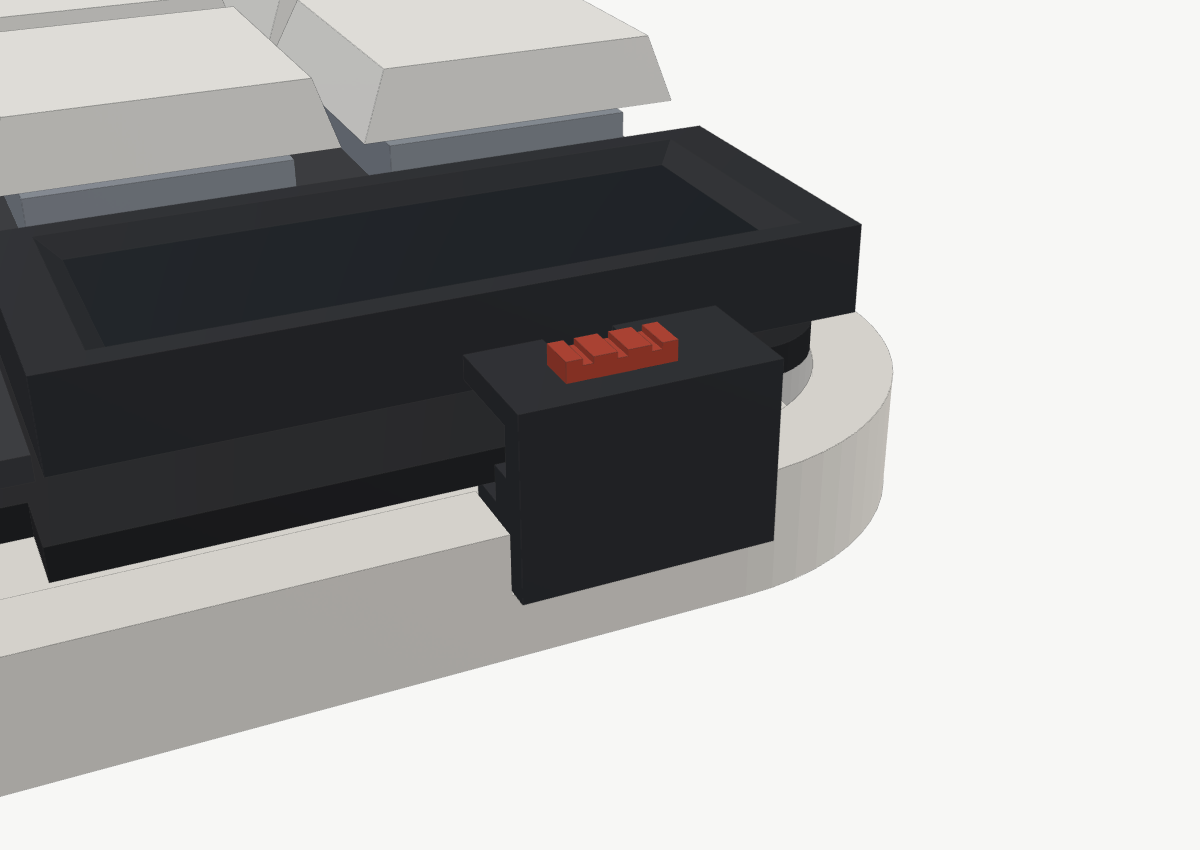
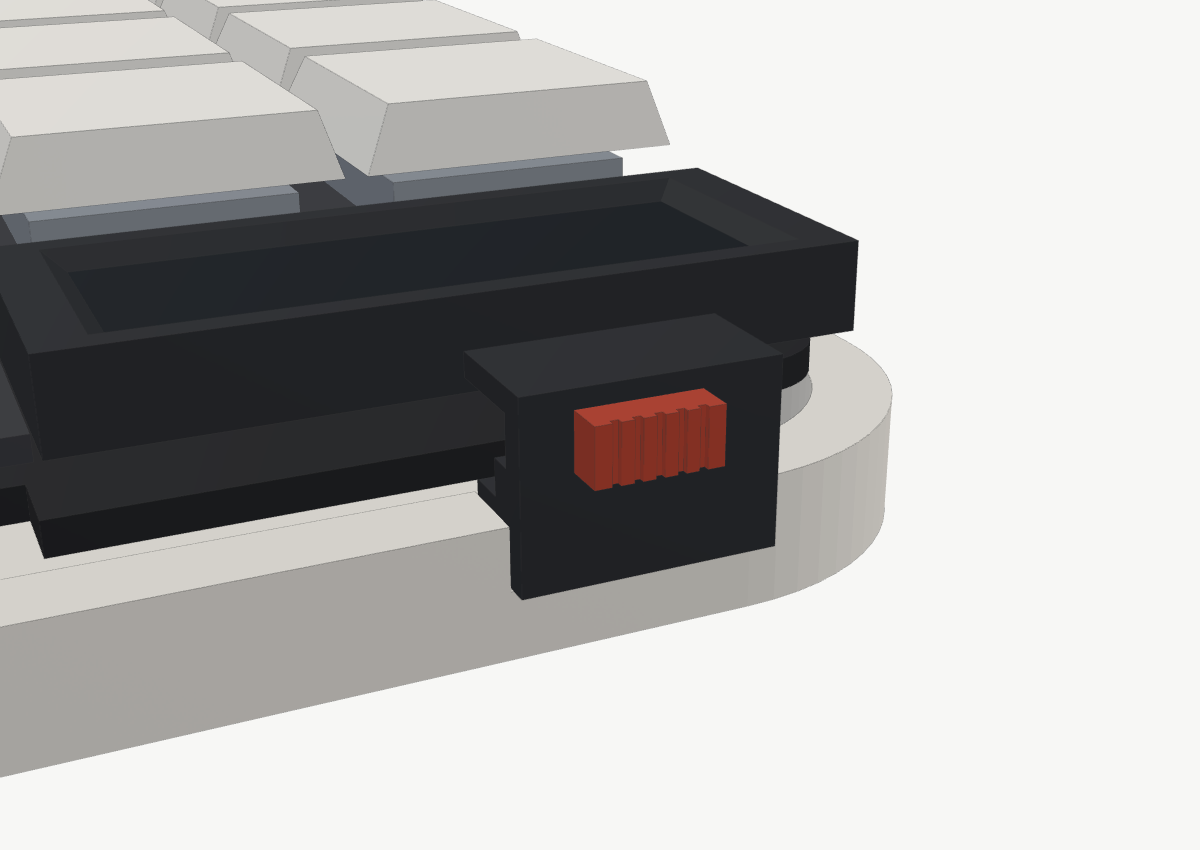
Ukishima: power switch knob sticks out sideways; fix switch cover assembly order
- Slider (fork + stem) passes through a slot in the cover's outer wall; separate knob presses on
- Roof is now solid; cover slides in from the side after the PCB is fixed (checked in ukishima.py)

Claude-Session: https://claude.ai/code/session_017zNm7dMSTHELcztuNr6aNy

diff --git a/case/concept_ukishima.py b/case/concept_ukishima.py
@@ -152,8 +152,9 @@ def battery_guides(side):
 
 # --- 電源スイッチ (横のスライドスイッチ PCM12) のカバーとつまみ ---
 # スイッチのレバーは基板の「舌」の端から 1mm 出るだけで、トレイの外側の面より 1mm 奥にある。
-# トレイの縁に「カバー」を留め、カバーの上に出た「つまみ」を指で前後に滑らせると、つまみの下の
-# 「フォーク」がレバーを動かす。フォークは上下に余裕があるので、基板が沈んで (ポロン) も引っかからない。
+# トレイの縁に「カバー」を留める。カバーの外の壁のみぞから「つまみ」が横に出ていて、前後に滑らせると
+# 内側の「フォーク」がレバーを動かす。フォークは上下に余裕があるので、基板が沈んで (ポロン) も引っかからない。
+# 組み立て: 基板をトレイに留めたあと、カバーを横から差し込み (フォークがレバーをはさむ)、裏からネジで留める。
 # 座標: スイッチの中心から外へ u、奥へ v (左右で v の向きは同じ)
 PWR = {"left": (6*U + 0.5*U + 0.85, 51.5, +1), "right": (k.RIGHT_X - 1.5*U - 0.85, 51.5, -1)}
 SW_LEVER_Z0, SW_LEVER_Z1 = PCB_T + 0.3, PCB_T + 1.2      # レバーの高さ (PCM12 の想定・実物合わせ)
@@ -165,7 +166,11 @@ SWC_BASE_TOP = 7.0                # 台の上面 (基板の舌が沈んでも当
 SWC_LEDGE_U, SWC_LEDGE_TOP = 2.35, 8.8    # つまみが乗る段 (舌の端 u 2.15 より外)
 SWC_WALL_U0, SWC_WALL_U1 = 3.625, 5.125   # 外の壁 (トレイの外側の面より 1mm 出る)
 SWC_ROOF_U0, SWC_ROOF_Z0, SWC_ROOF_Z1 = -1.0, 11.3, 12.5   # 屋根 (スイッチの上を隠す)
-SWC_SLOT = 1.7                    # 屋根のみぞ (つまみの軸が通る・半分の幅)
+SWC_STEM = 0.6                    # つまみの軸 (半分の太さ・1.2mm 角)
+SWC_STEM_Z = (9.6, 10.8)          # 軸の高さ
+SWC_SLOT = SWC_STEM + 0.75 + 0.15 # 外の壁のみぞ (半分の幅。軸 + 動く量 0.75 + すき間)
+SWC_KNOB_U = (5.25, 7.25)         # つまみ (外の壁から 0.125mm 離す)
+SWC_KNOB_V, SWC_KNOB_Z = 3.0, (8.8, 11.6)
 SWC_SCREWS = ((1.2, -3.4), (1.2, 4.9))    # カバーをトレイの裏から留めるタッピングネジ M2 (u, v)
 
 
@@ -185,22 +190,32 @@ def switch_cover(side):
     m = m + _uv_cube(SWC_LEDGE_U, SWC_WALL_U0 + 0.01, SWC_V0, SWC_V1, SWC_BASE_TOP - 0.01, SWC_LEDGE_TOP)   # 段
     m = m + _uv_cube(SWC_WALL_U0, SWC_WALL_U1, SWC_V0, SWC_V1, SWC_POCKET_Z + 0.05, SWC_ROOF_Z1)  # 外の壁
     m = m + _uv_cube(SWC_ROOF_U0, SWC_WALL_U1, SWC_V0, SWC_V1, SWC_ROOF_Z0, SWC_ROOF_Z1)          # 屋根
-    m = m - _uv_cube(SWC_ROOF_U0 - 1, 3.45, -SWC_SLOT, SWC_SLOT, SWC_ROOF_Z0 - 0.1, SWC_ROOF_Z1 + 1)   # みぞ
+    m = m - _uv_cube(SWC_WALL_U0 - 0.1, SWC_WALL_U1 + 0.1, -SWC_SLOT, SWC_SLOT,
+                     SWC_STEM_Z[0] - 0.15, SWC_STEM_Z[1] + 0.15)                          # 外の壁のみぞ
     for u, v in SWC_SCREWS:
         m = m - k.cyl(u, v, SWC_POCKET_Z - 1, SWC_BASE_TOP - 0.8, 0.8)          # タッピングの下穴
     return _pwr_place(side, m)
 
 
 def switch_slider(side):
+    """フォーク＋軸 (1 つの部品)。軸を内側から外の壁のみぞに通し、外からつまみをはめる"""
     z0, z1 = SW_LEVER_Z0 - 0.7 - 0.15, SWC_ROOF_Z0 - 0.1     # フォーク (基板が 0.7mm 沈んでもレバーをつかむ)
     gap = 0.8                                                # レバー 1.3mm + すき間
     m = (_uv_cube(2.4, 3.25, gap, 1.8, z0, z1) + _uv_cube(2.4, 3.25, -1.8, -gap, z0, z1) +
          _uv_cube(3.25, 3.525, -1.8, 1.8, z0, z1))                                       # フォーク
-    m = m + _uv_cube(2.7, 3.3, -0.8, 0.8, z1 - 0.01, SWC_ROOF_Z1 + 0.11)                 # 軸
-    cap = _uv_cube(1.6, 3.6, -2.6, 2.6, SWC_ROOF_Z1 + 0.1, SWC_ROOF_Z1 + 1.1)          # つまみ
-    for v in (-1.6, 0, 1.6):                                 # すべり止めのみぞ
-        cap = cap - _uv_cube(1.0, 4.2, v - 0.25, v + 0.25, SWC_ROOF_Z1 + 0.8, SWC_ROOF_Z1 + 2)
-    return _pwr_place(side, m + cap)
+    m = m + _uv_cube(3.5, SWC_KNOB_U[0] + 1.4, -SWC_STEM, SWC_STEM, *SWC_STEM_Z)        # 軸 (外へ)
+    return _pwr_place(side, m)
+
+
+def switch_knob(side):
+    """つまみ (横に出る)。軸にはめる (穴は 0.05mm ゆるめ・抜ける時は瞬間接着剤を 1 滴)"""
+    u0, u1 = SWC_KNOB_U
+    m = _uv_cube(u0, u1, -SWC_KNOB_V, SWC_KNOB_V, *SWC_KNOB_Z)
+    m = m - _uv_cube(u0 - 0.1, u0 + 1.45, -SWC_STEM - 0.05, SWC_STEM + 0.05,
+                     SWC_STEM_Z[0] - 0.05, SWC_STEM_Z[1] + 0.05)                          # 軸の穴
+    for v in (-2.0, -1.0, 0.0, 1.0, 2.0):                    # すべり止めのみぞ (縦)
+        m = m - _uv_cube(u1 - 0.3, u1 + 1, v - 0.2, v + 0.2, SWC_KNOB_Z[0] - 1, SWC_KNOB_Z[1] + 1)
+    return _pwr_place(side, m)
 
 
 def switch_pocket(side):
@@ -413,6 +428,7 @@ def half(side, size=25):
     parts["view_cover"] = view_cover(side)
     parts["switch_cover"] = switch_cover(side)
     parts["slider"] = switch_slider(side)
+    parts["knob_sw"] = switch_knob(side)
     if side == "left":
         ex, ey = 5.5*U, U
         parts["knob"] = (k.cyl(ex, ey, PCB_T + 1, KEY_TOP + 1.0, 7.5) -
@@ -439,7 +455,7 @@ COLORS = {  # 色・分解図での持ち上げ量
     "tray": ("#e8e4dc", 0), "posts": ("#d2cdc3", 0), "gasket": ("#e98f9c", 8),
     "pcb": ("#202124", 16), "plate": ("#3a3b3f", 26), "switch": ("#8e949b", 34), "caps": ("#f3f0e9", 46),
     "view": ("#11181f", 26), "knob": ("#2b2d31", 46), "screws": ("#a9adb3", 0), "magsafe": ("#8a8f98", -14), "battery": ("#5b7fa6", 4),
-    "view_cover": ("#2b2d31", 40), "switch_cover": ("#2b2d31", 20), "slider": ("#b8432f", 30),
+    "view_cover": ("#2b2d31", 40), "switch_cover": ("#2b2d31", 20), "slider": ("#b8432f", 30), "knob_sw": ("#b8432f", 30),
     "ball_base": ("#d9d5cc", 0), "ball_cup": ("#ece7dd", 22), "ball_cover": ("#2b2d31", 44), "ball": ("#b8432f", 62),
 }
 

diff --git a/case/ukishima.py b/case/ukishima.py
@@ -13,7 +13,8 @@
     ball_base_34.stl                 … 34mm 専用の受け (土台とカップが一体・固定の爪つき)
     ball_hood_34.stl                 … 34mm のフード (爪 2 本・外側でひねってロック)
     switch_cover_left.stl / _right   … 電源スイッチのカバー (トレイの縁に裏からネジ 2 本)
-    switch_slider.stl                … カバーの上のつまみ (2 個印刷する・左右共通)
+    switch_slider.stl                … カバーの中のフォーク＋軸 (2 個印刷する・左右共通)
+    switch_knob.stl                  … 横に出るつまみ (2 個印刷する・左右共通。軸にはめる)
     view_cover_left.stl / _right     … nice!view のカバー (窓あき・nice!view にはめる)
 STL は印刷する向き (置く面が下) で書き出す。
 
@@ -166,8 +167,20 @@ def check():
             lever = cu._pwr_place(side, cu._uv_cube(1.6, cu.SW_LEVER_TIP, pos - 0.65, pos + 0.65,
                                                      cu.SW_LEVER_Z0, cu.SW_LEVER_Z1))
             sl = p["slider"].translate([0, pos, 0])
-            if (sl ^ lever).volume() > 0.01 or (sl ^ p["switch_cover"]).volume() > 0.01:
+            kn = p["knob_sw"].translate([0, pos, 0])
+            if ((sl ^ lever).volume() > 0.01 or (sl ^ p["switch_cover"]).volume() > 0.01 or
+                    (kn ^ p["switch_cover"]).volume() > 0.01 or (kn ^ p["tray"]).volume() > 0.01):
                 problems.append(f"{side}: つまみがレバーの位置 {pos:+.2f} で動けない")
+            # 基板を留めたあと、カバー (つまみ付き) を横から差し込めるか
+            sx, sy, d = cu.PWR[side]
+            for du in (6.0, 4.0, 2.0, 1.0, 0.5):
+                mv = [d * du, pos * 0, 0]
+                unit = (p["switch_cover"] + sl + kn).translate(mv)
+                for name in ("pcb", "plate", "view_cover", "tray"):
+                    if (unit ^ p[name]).volume() > 0.01:
+                        problems.append(f"{side}: カバーを横から差し込む途中 ({du}mm) で {name} に当たる")
+                if (sl.translate(mv) ^ lever).volume() > 0.01:
+                    problems.append(f"{side}: 差し込む途中でフォークがレバーに当たる ({du}mm)")
     # ボールユニット: キー・基板・プレートに当たらないか (回してロックする途中も)
     for size in (25, 34):
         p = cu.half("right", size)
@@ -204,7 +217,8 @@ def main():
         "ball_hood_34": cu.claw_cover(34)[0],
         "switch_cover_left": on_bed(cu.switch_cover("left"), (0, 90, 0)),      # 外の面を下
         "switch_cover_right": on_bed(cu.switch_cover("right"), (0, -90, 0)),
-        "switch_slider": on_bed(cu.switch_slider("left"), (180, 0, 0)),        # つまみを下
+        "switch_slider": on_bed(cu.switch_slider("left"), (0, -90, 0)),        # フォークの先を下・軸を上
+        "switch_knob": on_bed(cu.switch_knob("left"), (0, 90, 0)),             # 穴のある面を上
         "view_cover_left": on_bed(cu.view_cover("left"), (180, 0, 0)),         # 上の面を下
         "view_cover_right": on_bed(cu.view_cover("right"), (180, 0, 0)),
     }

diff --git a/docs/ukishima-build.md b/docs/ukishima-build.md
@@ -16,12 +16,13 @@ kataware の今の製作用の形「浮島」の、**データ・買う物・3D 
 | ボールユニット（右手） | 19 / 25mm：共用の土台＋交換カップ＋爪留めカバー。34mm：専用の受け（固定の爪つき）＋フード。どれも**トレイの床の穴に落とし込み、耳を床の裏から 3 本のネジで留める** |
 | テンティング | MagSafe スタンドにくっつけて傾ける（約 45° までボールが浮かない） |
 | 電池 | トレイの床のくぼみ（深さ 1mm）に置き、**四隅の L 形のガイド**（高さ 3mm）で囲む。上は基板の裏まで 0.5mm なので浮き上がらない |
-| 電源スイッチ | 横のスライドスイッチはトレイの外の面より約 1mm 奥にあるので、**カバー＋つまみ**を付ける。つまみを前後に滑らせると、下の「フォーク」がレバーを動かす（基板が沈んでも引っかからないよう、フォークは上下に余裕がある） |
+| 電源スイッチ | 横のスライドスイッチはトレイの外の面より約 1mm 奥にあるので、**カバー＋横に出るつまみ**を付ける。つまみを前後に滑らせると、カバーの中の「フォーク」がレバーを動かす（基板が沈んでも引っかからないよう、フォークは上下に余裕がある）。上は屋根でスイッチを隠す |
 | nice!view | **窓あきのカバー**を nice!view にかぶせる（長い辺の小さな爪が nice!view の基板のふちの下に入って止まる）。プレートはこのカバーが入るように角を切ってある |
 
 ![基板の留め方](concept/ukishima-mount.png)
 ![電池のガイドと柱](concept/ukishima-battery.png)
 ![電源スイッチのカバーとつまみ](concept/ukishima-switch.png)
+![横から見たつまみ](concept/ukishima-switch-side.png)
 ![nice!view のカバー](concept/ukishima-view.png)
 
 ### 高さ（机から・ゴム足なし）
@@ -63,7 +64,8 @@ kataware の今の製作用の形「浮島」の、**データ・買う物・3D 
 | `ball_base_34` | 1（34mm を使う時） | 底を下 | 耳の下だけ | 固定の爪は上へ伸びる形 |
 | `ball_hood_34` | 1（34mm を使う時） | フードの下の面を下 | なし | |
 | `switch_cover_left` / `_right` | 各 1 | 書き出した向きのまま（外の面が下） | なし | 屋根は横向きの壁として印刷される |
-| `switch_slider` | **2** | 書き出した向きのまま（つまみが下） | なし | 小さい部品。0.4mm ノズル・積層 0.12mm で |
+| `switch_slider`（フォーク＋軸） | **2** | 書き出した向きのまま（フォークの先が下・軸が上） | なし | 小さい部品。0.4mm ノズル・積層 0.12mm で |
+| `switch_knob`（つまみ） | **2** | 書き出した向きのまま（穴が上） | なし | 軸にはめる。ゆるければ瞬間接着剤を 1 滴 |
 | `view_cover_left` / `_right` | 各 1 | 書き出した向きのまま（上の面が下） | なし | 窓のふちは斜め。爪は最後に積まれる |
 
 おすすめの設定（Bambu Studio）：積層 0.12〜0.16mm・壁 4〜6 周・インフィル 30%（爪のある部品は 100%）・ノズル温度は高め（例 215〜220℃）
@@ -97,14 +99,17 @@ kataware の今の製作用の形「浮島」の、**データ・買う物・3D 
 2. **プレート＋スイッチ**：プレートにスイッチをはめ、基板のソケットに挿す（基板・プレート・スイッチが一体になる）
 3. **トレイ（右）**：ボールユニットの耳にインサートを押し込む → 土台（または 34mm の受け）をトレイの穴に落とし込み、
    **トレイの裏から M2 × 5mm 皿ネジ × 3**。センサー基板を土台の底に置き、ケーブルを出口から出しておく
-4. **トレイ（両方）**：裏に**メタルリング**を溝に合わせて貼る・**ゴム足**を貼る・**電池**を床のくぼみ（四隅のガイドの中）に置く（両面テープ）。
-   **電源スイッチのカバー**の溝に**つまみ**を内側から差し込み、カバーをトレイの縁のくぼみに置いて、**裏から M2 × 6mm 皿タッピング × 2** で留める
+4. **トレイ（両方）**：裏に**メタルリング**を溝に合わせて貼る・**ゴム足**を貼る・**電池**を床のくぼみ（四隅のガイドの中）に置く（両面テープ）
 5. **ポロンの輪**を 8 本の柱の上に貼る
-6. 基板一式をトレイに乗せ、電池とセンサーのケーブルを基板のコネクタに挿す。乗せる時、**つまみのフォークが電源スイッチのレバーをはさむ**ように、つまみをレバーの位置に合わせておく
+6. 基板一式をトレイに乗せ、電池とセンサーのケーブルを基板のコネクタに挿す
 7. **トレイの裏から**：ネジ → ワッシャー → カラーの順に通して、柱の穴から差し込み、基板のナットに締める（8 か所）。
    **カラーが当たって止まるところまで**締めれば、ポロンのつぶれ具合はちょうどよくなる
-8. **nice!view のカバー**：nice!view に上からかぶせて、爪がふちの下に入るまで押す（外す時は短い辺を少し持ち上げる）
-9. **ボール**：ベアリングを付けたカップを土台に入れる → ボール → カバーを差し込んで時計回りに 30° ひねる
+8. **電源スイッチのカバー**（基板を留めた**あと**。先に付けると屋根がじゃまで基板が入らない）：
+   フォーク＋軸を、カバーの外の壁のみぞに**内側から**通し、外から**つまみ**をはめる（これでカバーから抜けない）。
+   つまみをスイッチのレバーと同じ側に寄せておき、カバーを**トレイの外から横に差し込む**（台は基板の舌の下、屋根はスイッチの上を通り、フォークがレバーをはさむ）。
+   **トレイの裏から M2 × 6mm 皿タッピング × 2** で留める。つまみを前後に動かして、電源が入る・切れるのを確かめる
+9. **nice!view のカバー**：nice!view に上からかぶせて、爪がふちの下に入るまで押す（外す時は短い辺を少し持ち上げる）
+10. **ボール**：ベアリングを付けたカップを土台に入れる → ボール → カバーを差し込んで時計回りに 30° ひねる
    （34mm：受けにボールを入れる → フードを差し込んで時計回りに 30° ひねる）
 
 ## 6. 古い版（ガスケットケース）
